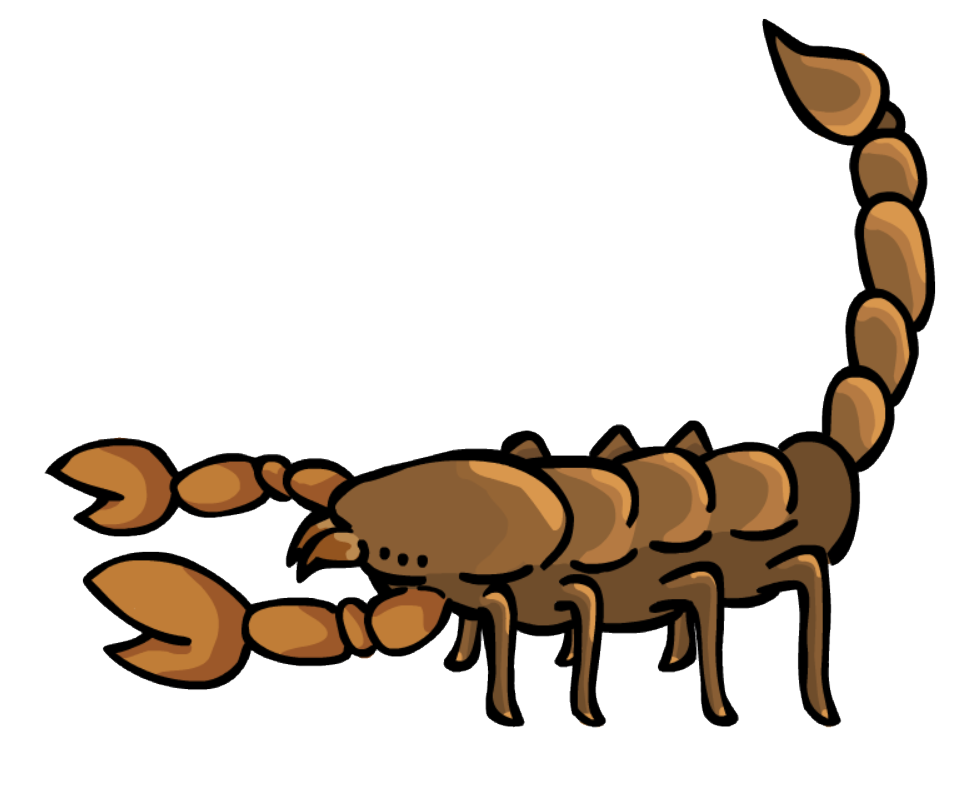
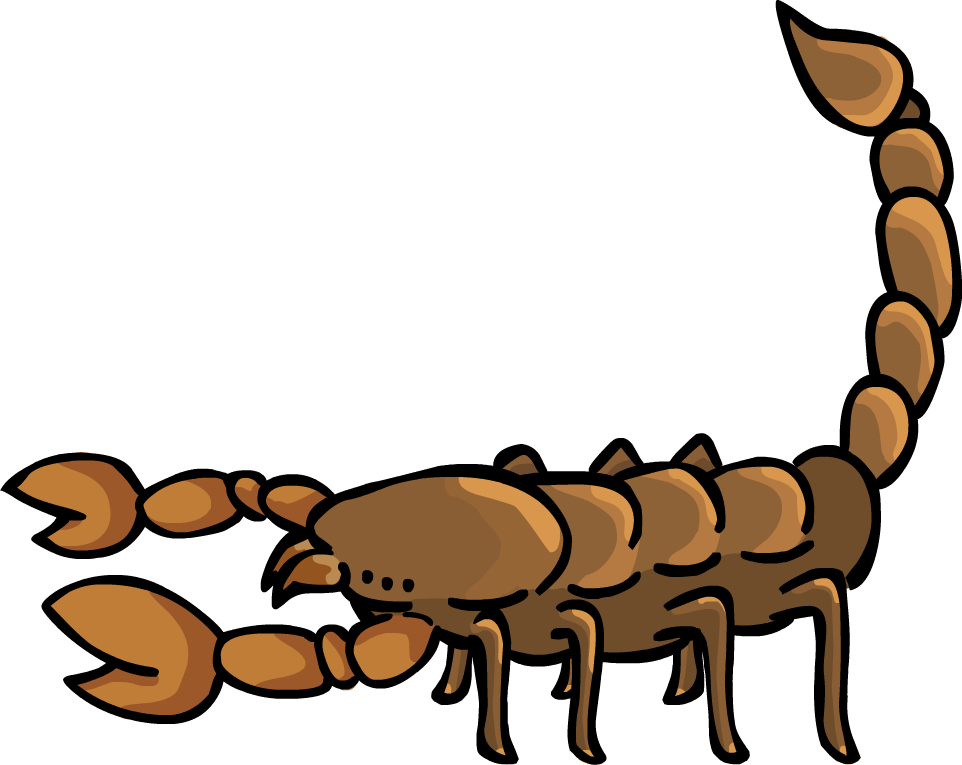
shake, balance, and started hitstop

diff --git a/game/js/Scorpion.js b/game/js/Scorpion.js
@@ -7,20 +7,24 @@ Scorpion = function(game, key, x, y, playerNum){
     //Vars
     this.charName = "LITERALLY A SCORPION";
     this.playerNum = playerNum; //Player number
-    this.speed = 7; //AG: Arbitrarily changing to 5, but having this as a var means we can do speed changes from an item or power later on if we want
+    this.speed = 30; //AG: Arbitrarily changing to 5, but having this as a var means we can do speed changes from an item or power later on if we want
     this.maxSpeed = 420;
 
     this.jumpHeight = -800; //AG: was -350 but players couldn't jump over eachother to test collision on multiple sides
     this.floorLevel = game.world.height - 20;
 
     //Animations
-    this.char = game.add.sprite(this.position.x, this.position.y, 'scorpion_idle');
-    //this.char.animations.add('left', [0,1,2,3], 10, true);
-    //this.char.animations.add('right', [5,6,7,8], 10, true);
+    this.char = game.add.sprite(this.position.x, this.position.y, 'scorpion_atlas');
+    this.char.animations.add('scorpion_walk',Phaser.Animation.generateFrameNames('Scorpion_walk_',1,2,'',1), 10, false);
+    this.char.animations.add('scorpion_stagger',Phaser.Animation.generateFrameNames('Scorpion_stagger',1,2,'',1), 10, false);
+
     this.scaleFactor = 0.4;
     this.char.scale.setTo(this.scaleFactor,this.scaleFactor);
     this.char.anchor.x = 0.5;
     this.char.anchor.y = 1
+
+    //this.scorpwalk = game.add.sprite(15, 30, 'scorp_walk');
+   // this.scorpwalk.animations.add('scorpion_walk',[0,1],10,true);
 
 
     /*
@@ -191,7 +195,8 @@ Scorpion.prototype.preState =function (){
 
     
     if (this.staggered && !this.action.block){
-        this.char.loadTexture('scorpion_stagger');
+        //this.char.loadTexture('scorpion_stagger');
+        this.char.animations.play('scorpion_stagger');
     }
     /*
     else{
@@ -225,10 +230,12 @@ Scorpion.prototype.preState =function (){
 
     if (this.position.y != this.floorLevel){
         this.action.jump = true;
+        this.maxSpeed = 120;
 
     }else{
         this.action.jump = false;
         this.canLightAttack = true;
+        this.maxSpeed = 420;
     }
 
     if (!this.action.jump && this.action.down){
@@ -238,7 +245,8 @@ Scorpion.prototype.preState =function (){
     //might need some changes here NH
     if (!this.timer.timerDone('downed') && this.action.down){
          //insert sprite change here
-         this.char.loadTexture('scorpion_down');
+         //this.char.loadTexture('scorpion_down');
+         this.char.frame = 5;//'Scorpion_Down';
          //this.action.down = false;
     }
 
@@ -307,7 +315,8 @@ Scorpion.prototype.downed = function(){
 Scorpion.prototype.lightAttack = function(){
     dir = this.faceRIGHT;
     //insert attack animation here
-    this.char.loadTexture('scorpion_A');
+    //this.char.loadTexture('scorpion_A');
+    this.char.frame= 11;//('Scorpion_LightAttack');
 
     this.fist.exists = true;
 
@@ -342,7 +351,8 @@ Scorpion.prototype.lightAttack = function(){
     if (this.timer.timerDone('light')){
         //this.debugText.text = 'done';
         //this.projectile();
-        this.char.loadTexture('scorpion_idle');
+        //this.char.loadTexture('scorpion_idle');
+        this.char.frame= 9;//('Scorpion_Idle');
         this.changeState(this.input);
         this.action.attacking = false;
         this.canLightAttack = false;
@@ -353,13 +363,15 @@ Scorpion.prototype.lightAttack = function(){
 
 Scorpion.prototype.heavyAttack = function(){
     this.fist.exists = true;
-    this.char.loadTexture('scorpion_B1');
+    //this.char.loadTexture('scorpion_B1');
+    this.char.frame=8;//('Scorpion_HeavyAttackCharge');
 
     if (this.action.jump || (this.position.y < this.floorLevel)){
         //dive kick
-
+        this.fist.exists = false;
+        this.char.frame = 6;
         
-        this.body.velocity.y = 750;
+        this.body.velocity.y = 1200;
         if (this.faceRIGHT){
             this.body.velocity.x = 250;
         }else{
@@ -393,16 +405,20 @@ Scorpion.prototype.heavyAttack = function(){
         if (this.timer.timerDone('heavy_cast') && !this.action.dive){
             //can cancel out of attack NH
             //this.action.cancel = false;
-            this.char.loadTexture('scorpion_B2');
+            //this.char.loadTexture('scorpion_B2');
+
+            this.char.frame=7;//('Scorpion_HeavyAttack');
             
             this.fist.position.x = this.position.x; //AG: Brings fist back on screen
+            this.fist.position.y = this.position.y -100;
             
             if (this.faceRIGHT){
-                this.fist.scale.x = 1;
-                this.fist.position.x += 250;
+                this.fist.scale.x = 0.5;
+                this.fist.position.x += 100;
+
             }else{
-                this.fist.scale.x = 1;
-                this.fist.position.x -= 250;
+                this.fist.scale.x = 0.5;
+                this.fist.position.x -= 100;
             }
             
         }
@@ -660,8 +676,8 @@ Scorpion.prototype.input = function(){
         //heavy attack NH
         
         if (game.input.keyboard.justPressed(this.keyB) && !this.action.block){
-            this.timer.startTimer('heavy_cast',1000);
-            this.timer.startTimer('heavy',1500);
+            this.timer.startTimer('heavy_cast',500);
+            this.timer.startTimer('heavy',1000);
             //this.timer.startTimer('heavy',1000);
             this.changeState(this.heavyAttack);
 
@@ -695,11 +711,16 @@ Scorpion.prototype.input = function(){
             //this.char.animations.play('left');
 
             if (this.action.jump && !this.staggered){
-                this.char.loadTexture('scorpion_jump');
+                //this.char.setTexture('scorpion_jump');
+                this.char.frame= 10;//('Scorpion_Jump');
             }else if(this.staggered) {
-                this.char.loadTexture('scorpion_stagger');
+                //this.char.setTexture('scorpion_stagger');
+                this.char.animation.play('scorpion_stagger');
             }else {
-                this.char.loadTexture('scorpion_idle');
+                //this.char.loadTexture('scorpion_idle');
+                //this.char.setTexture('scorp_walk');
+                //this.char.animations.add('scorpion_walk',[0,1], 10, true);
+                this.char.animations.play('scorpion_walk');
             }
             
             
@@ -739,9 +760,14 @@ Scorpion.prototype.input = function(){
             //this.char.animations.play('right');
 
             if (this.action.jump){
-                this.char.loadTexture('scorpion_jump');
+                //this.char.setTexture('scorpion_jump');
+                this.char.frame= 10;//('Scorpion_Jump');
             }else{
-                this.char.loadTexture('scorpion_idle');
+                //this.char.loadTexture('scorpion_idle');
+                
+                //this.char.setTexture('scorp_walk');
+                //this.char.animations.add('scorpion_walk',[0,1], 10, true);
+                this.char.animations.play('scorpion_walk');
             }
 
             this.prev_anim = 1;
@@ -751,14 +777,18 @@ Scorpion.prototype.input = function(){
             this.body.velocity.x = 0;
 
             if (this.action.jump && !this.action.stagfall){
-                this.char.loadTexture('scorpion_jump');
+                //this.char.setTexture('scorpion_jump');
+                this.char.frame=10;//('Scorpion_Jump');
             }else if (this.action.block){
-                this.char.loadTexture('scorpion_crouch');
-
+                //this.char.setTexture('scorpion_crouch');
+                //this.char.frame=('Scorpion_crouch');
+                this.char.frame=4;
             }else if(this.action.stagfall) {
-                this.char.loadTexture('scorpion_stagger');
+                //this.char.setTexture('scorpion_stagger');
+                this.char.animations.play('scorpion_stagger');
             }else {
-                this.char.loadTexture('scorpion_idle');
+                //this.char.setTexture('scorpion_idle');
+                this.char.frame=9;//('Scorpion_Idle');
             }
 
             

diff --git a/game/js/main.js b/game/js/main.js
@@ -23,6 +23,14 @@ var mainState = {
         //AG: Text
         var introText1;
         var introText2;
+
+
+        var tempgrav1 ;
+        var tempvely1 ;
+        var tempvelx1 ;
+        var tempgrav2 ;
+        var tempvely2 ;
+        var tempvelx2 ;
     },
 
 	create: function() {
@@ -105,6 +113,15 @@ var mainState = {
         var tween2;
 
         tween1.onComplete.add(mainState.Tween1completed, this);
+
+        //timer stuff
+        this.timer = new setTime();
+
+        //hitstop stuff
+        this.hitting = false;
+        this.hitter = 1;
+        this.justhev = false;
+
 	},
 
 	update: function() {
@@ -160,8 +177,38 @@ var mainState = {
         }
 
         //Light and heavy attacks
+
         game.physics.arcade.overlap(player1,fist2,mainState.determineAttack, null, this);
         game.physics.arcade.overlap(player2,fist1,mainState.determineAttack, null, this);
+
+        /*
+
+        if (!this.hitting){
+        	tempgrav1 = player1.body.gravity.y;
+        	tempvely1 = player1.body.velocity.y;
+        	tempvelx1 = player1.body.velocity.x;
+        	tempgrav2 = player2.body.gravity.y;
+        	tempvely2 = player2.body.velocity.y;
+        	tempvelx2 = player2.body.velocity.x;
+        }
+
+        if (this.timer.timerDone('hitstop')){
+        	this.hitting = false;
+
+        	player1.body.gravity.y = tempgrav1;
+        	player1.body.velocity.y = tempvely1;
+       		player1.body.velocity.x = tempvelx1;
+        	player2.body.gravity.y = tempgrav2;
+        	player2.body.velocity.y = tempvely2;
+       		player2.body.velocity.x = tempvelx2;
+       		if (this.justhev){
+       			this.justhev = false;
+       			mainState.calcKnockBack(100,70,this.hitter);
+       		}
+       		
+        }
+        */
+
         
         //Handling SECURITY's Projectiles
         if(player2.charName == "SECURITY"){
@@ -217,6 +264,7 @@ var mainState = {
     determineAttack: function(player,hitbox){
         var attackingPlayer;
         var hitPlayer = player.playerNum;
+
         
         //AG: Determines out who is attacking
         if(hitPlayer == 1){
@@ -243,23 +291,60 @@ var mainState = {
     },
     
     lightAttack: function(player,hitbox){
-        mainState.calcKnockBack(50,30,player.playerNum);
-        player.takeDamage(3,100);
+        mainState.calcKnockBack(35,10,player.playerNum);
+        player.takeDamage(5,50);
+
+        if(!player1.action.block && !player2.action.block && !player1.action.down && !player2.action.down){
+        	game.camera.shake(0.001, 100);
+        }
+
     },
   
     heavyAttack: function(player,hitbox){
-        mainState.calcKnockBack(100,70,player.playerNum);
-        player.takeDamage(10,1000);
+        mainState.calcKnockBack(400,40,player.playerNum);
+
+        player.takeDamage(15,200);
+        if(!player1.action.block && !player2.action.block && !player1.action.down && !player2.action.down){
+        	game.camera.shake(0.005, 100);
+        }
+        
+
+        /*
+
+        this.hitting = true;
+        this.hitter = player.playerNum
+        this.justhev = true;
+
+        this.timer.startTimer('hitstop',500);
+        
+        player1.body.gravity.y = 0;
+        player1.body.velocity.y = 0;
+        player1.body.velocity.x = 0;
+        player2.body.gravity.y = 0;
+        player2.body.velocity.y = 0;
+        player2.body.velocity.x = 0;
+        */
+        
+        
+
     },
     
     SecurityHeavyAttack: function(player,hitbox){
         mainState.calcKnockBack(300,100,player.playerNum);
         player.takeDamage(10,1000); 
+        if(!player1.action.block && !player2.action.block && !player1.action.down && !player2.action.down){
+        	game.camera.shake(0.005, 100);
+    	}
+
     },
     
     diveKick: function(player,hitbox){
         mainState.calcKnockBack(40,30,player.playerNum);
         player.takeDamage(5,250);
+        if(!player1.action.block && !player2.action.block && !player1.action.down && !player2.action.down){
+        	game.camera.shake(0.005, 100);
+    	}
+
     },
     
     //AG: Should figure out which direction to apply knockback

diff --git a/game/js/preloader.js b/game/js/preloader.js
@@ -11,6 +11,7 @@ var preloaderState = {
         game.load.image('health_damage','assets/img/health_damage.png');
         
         //Scorpion
+        /*
         game.load.image('scorpion_idle','assets/img/Scorpion/Scorpion_Idle.png');
         game.load.image('scorpion_crouch','assets/img/Scorpion/Scorpion_crouch.png');
         game.load.image('scorpion_jump','assets/img/Scorpion/Scorpion_Jump.png');
@@ -19,6 +20,11 @@ var preloaderState = {
         game.load.image('scorpion_B2','assets/img/Scorpion/Scorpion_HeavyAttack.png');
         game.load.image('scorpion_down','assets/img/Scorpion/Scorpion_Down.png');
         game.load.image('scorpion_stagger','assets/img/Scorpion/Scorpion_stagger.png');
+        //game.load.image('scorpion_walk1','assets/img/Scorpion/Scorpion_walk_1.png');
+        //game.load.image('scorpion_walk2','assets/img/Scorpion/Scorpion_walk_2.png');
+        game.load.spritesheet('scorp_walk','assets/img/Scorpion/scorp_walk.png', 741, 660);
+        */
+        game.load.atlas('scorpion_atlas', 'assets/img/Scorpion/spritesheet.png','assets/img/Scorpion/sprites.json');
 
 		//insert assets to load here NH
         
